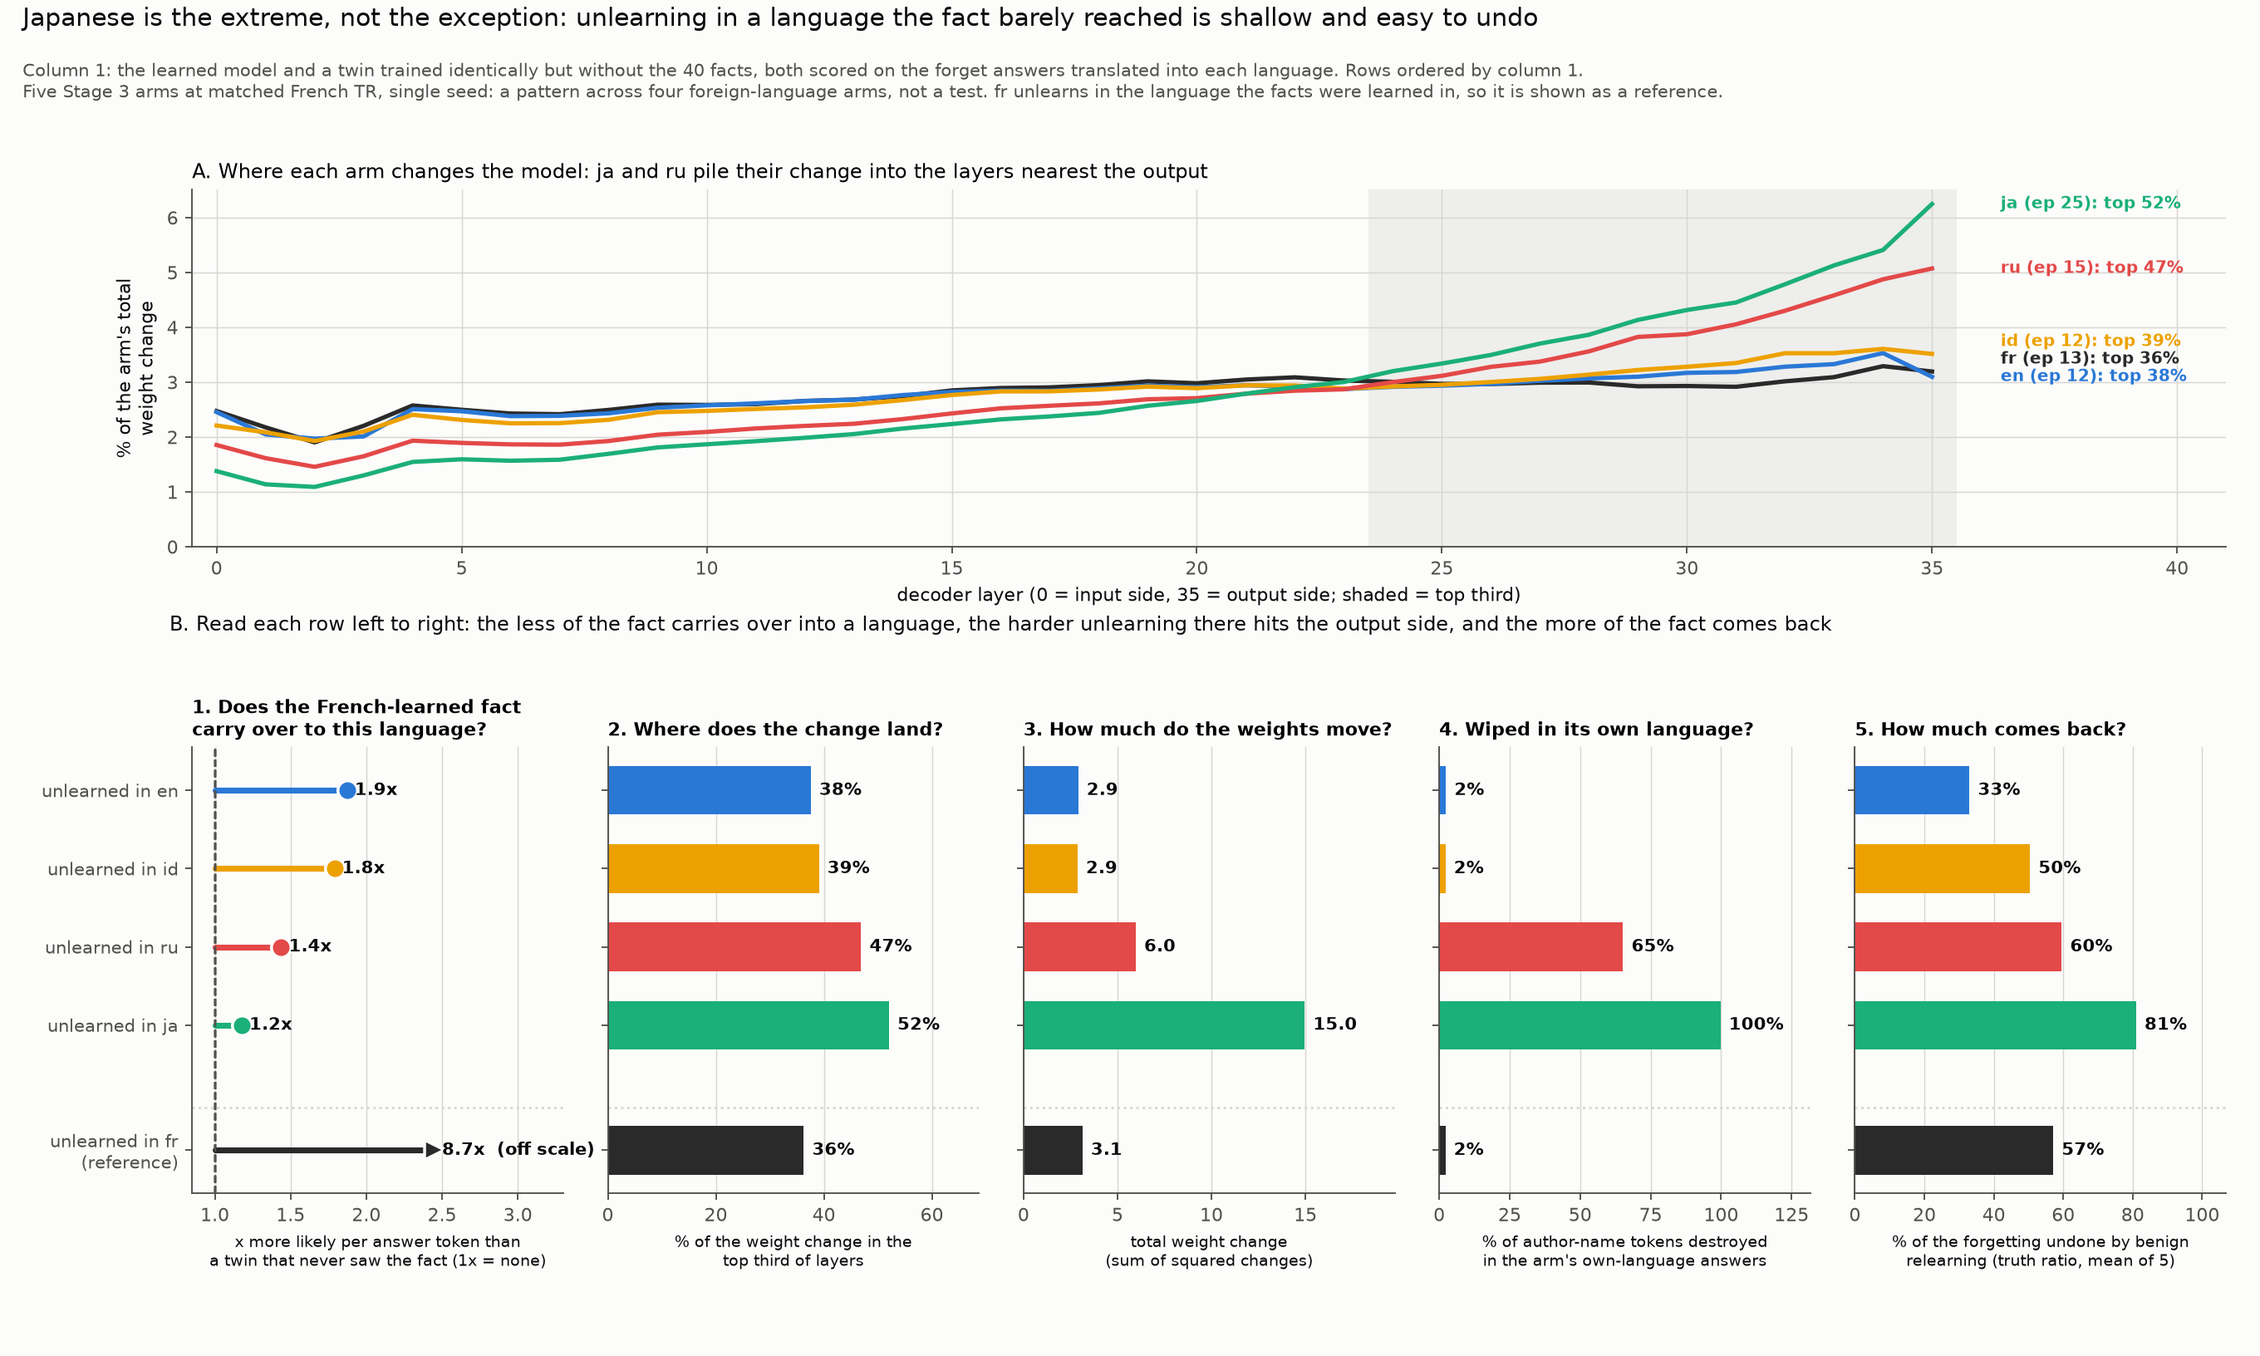
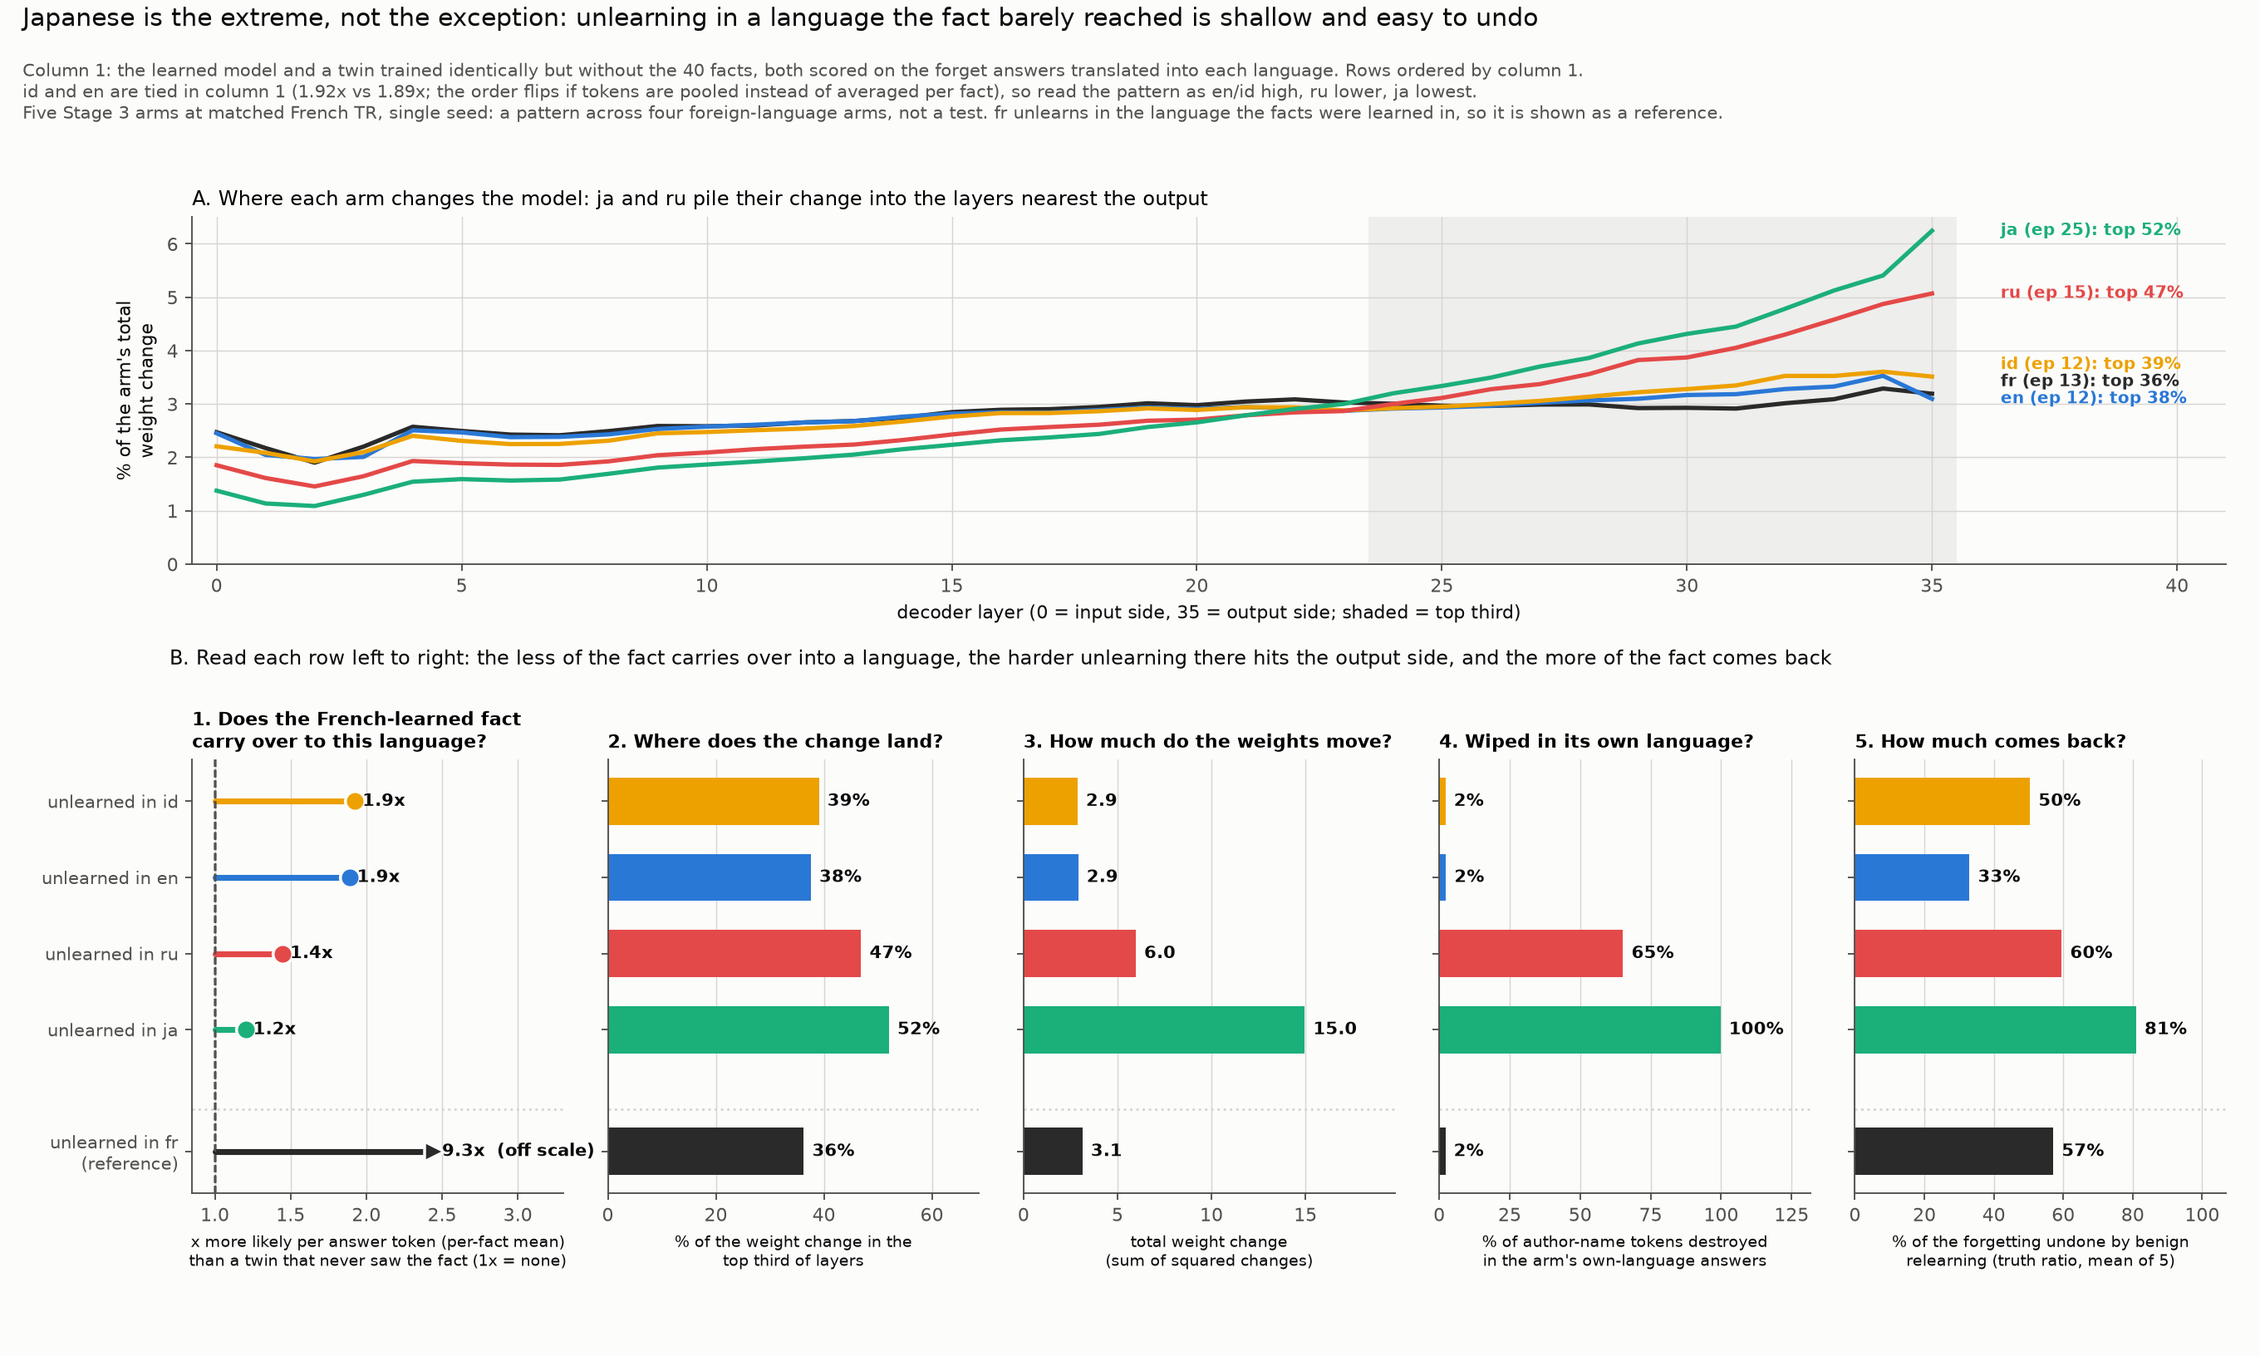
learn_french: per-fact carry-over in figs 12-13, seed sweep marked running, plot_plan3 skips seed runs, research trail in START HERE

diff --git a/studies/learn_french/side_checks/plots/plot_plan3.py b/studies/learn_french/side_checks/plots/plot_plan3.py
@@ -88,6 +88,8 @@ def load():
             layers=json.load(open(STUDY / "results" / "layer_diff.json"))["pairs"][f"unl_{lg}"]))
     for f in sorted(P3.glob("traj_ul*_tr*.jsonl")):
         run = f.stem[len("traj_"):]
+        if "_s42_" not in run:                 # seed-sweep runs share this folder; not Plan 3
+            continue
         lg = run[2:4]
         meas = P3 / "measure" / f"{run}.json"
         if not meas.exists():
@@ -456,6 +458,26 @@ def five_arms():
     return d["texts"], {cc.label(c): v for c, v in d["results"].items()}
 
 
+def carry_over(T, R, langs):
+    """How much of the French-learned fact the model holds in each language: per forget
+    fact, mean teacher-forced log p over the answer tokens (in that language) under fr_ft
+    minus the same under fr_retain; then the mean over the 40 facts. Facts are weighted
+    equally, as in every other per-fact metric here. (Pooling tokens instead weights long
+    answers more and swaps en and id -- they are tied either way.)"""
+    out = {}
+    for lg in langs:
+        d = []
+        for k, t in T.items():
+            if t["split"] != "forget" or t["lang"] != lg:
+                continue
+            keep = [i for i, e in enumerate(t["is_eos"]) if not e]
+            a = sum(R["fr_ft"][k]["lp"][i] for i in keep) / len(keep)
+            b = sum(R["fr_retain"][k]["lp"][i] for i in keep) / len(keep)
+            d.append(a - b)
+        out[lg] = sum(d) / len(d)
+    return out
+
+
 # ---- 10 (redrawn). blanket damage: the whole sentence, in the arm's own language ---------------
 def fig_blanket2(runs):
     T, R = five_arms()
@@ -565,12 +587,7 @@ def fig_five():
     lay = json.load(open(STUDY / "results" / "layer_diff.json"))["pairs"]
     s1, unl, cells, _ = S3.load()
     L5 = ["fr", "en", "id", "ru", "ja"]
-
-    def mlp(m, lg):
-        v = [x for k, t in T.items() if t["split"] == "forget" and t["lang"] == lg
-             for x, e in zip(R[m][k]["lp"], t["is_eos"]) if not e]
-        return sum(v) / len(v)
-    stored = {lg: mlp("fr_ft", lg) - mlp("fr_retain", lg) for lg in L5}
+    stored = carry_over(T, R, L5)
     prof, top, tot = {}, {}, {}
     for lg in L5:
         Lr = lay[f"unl_{lg}"]["layers"]
@@ -590,12 +607,14 @@ def fig_five():
     rp = {lg: rec(lg, "prob") for lg in L5}
 
     carry = {lg: math.exp(stored[lg]) for lg in L5}     # x more likely per answer token
+    fo = sorted((g for g in L5 if g != "fr"), key=lambda g: -carry[g])
+    tie = abs(carry[fo[0]] - carry[fo[1]]) < 0.1        # en / id: order flips with weighting
     rows = sorted((lg for lg in L5 if lg != "fr"), key=lambda g: -stored[g]) + ["fr"]
     ypos = {lg: (len(rows) - 1 - i if lg != "fr" else -0.6) for i, lg in enumerate(rows)}
 
     fig = plt.figure(figsize=(16, 9.6))
     gs = fig.add_gridspec(2, 5, height_ratios=[0.8, 1], hspace=0.5, wspace=0.12,
-                          top=0.86, bottom=0.12, left=0.085, right=0.985)
+                          top=0.84, bottom=0.12, left=0.085, right=0.985)
     ax = fig.add_subplot(gs[0, :])
     ends, last = {}, None
     for lg in sorted(L5, key=lambda g: prof[g][-1]):
@@ -617,7 +636,7 @@ def fig_five():
 
     cols = [
         ("1. Does the French-learned fact\ncarry over to this language?", carry,
-         "x more likely per answer token than\na twin that never saw the fact (1x = none)",
+         "x more likely per answer token (per-fact mean)\nthan a twin that never saw the fact (1x = none)",
          lambda v: f"{v:.1f}x", 1.0),
         ("2. Where does the change land?", top,
          "% of the weight change in the\ntop third of layers", lambda v: f"{v:.0f}%", 0),
@@ -636,7 +655,7 @@ def fig_five():
         for lg in rows:
             y = ypos[lg]
             if j == 0:                        # a ratio: a lollipop from 1x, not a bar from 0
-                cap = 2.45                    # fr (8.7x) runs off this scale on purpose
+                cap = 2.45                    # fr (~9x) runs off this scale on purpose
                 end = min(v[lg], cap)
                 ax.plot([base, end], [y, y], color=ARM[lg], lw=3, solid_capstyle="round")
                 ax.plot(end, y, ">" if v[lg] > cap else "o", ms=10, color=ARM[lg], mec=SURFACE,
@@ -661,14 +680,18 @@ def fig_five():
         ax.grid(axis="y", visible=False)
         ax.set_xlabel(xlab, fontsize=8)
         ax.set_title(head, loc="left", fontsize=9.5, fontweight="bold")
-    fig.text(0.075, 0.535, "B. Read each row left to right: the less of the fact carries over "
+    fig.text(0.075, 0.51, "B. Read each row left to right: the less of the fact carries over "
              "into a language, the harder unlearning there hits the output side, and the more of "
              "the fact comes back", fontsize=10, color=INK)
     title(fig, "Japanese is the extreme, not the exception: unlearning in a language the fact "
                "barely reached is shallow and easy to undo",
           "Column 1: the learned model and a twin trained identically but without the 40 facts, "
           "both scored on the forget answers translated into each language. Rows ordered by "
-          "column 1.\nFive Stage 3 arms at matched French TR, single seed: a pattern across four "
+          "column 1"
+          + (f".\n{fo[0]} and {fo[1]} are tied in column 1 ({carry[fo[0]]:.2f}x vs "
+             f"{carry[fo[1]]:.2f}x; the order flips if tokens are pooled instead of averaged per "
+             "fact), so read the pattern as en/id high, ru lower, ja lowest" if tie else "")
+          + ".\nFive Stage 3 arms at matched French TR, single seed: a pattern across four "
           "foreign-language arms, not a test. fr unlearns in the language the facts were learned "
           "in, so it is shown as a reference.")
     save(fig, "12_five_languages.png")
@@ -679,12 +702,7 @@ def fig_five_durability():
     s1, unl, cells, _ = S3.load()
     pr = json.load(open(STUDY / "preregistration.json"))["stage3_matched_checkpoints"]
     T, R = five_arms()
-
-    def mlp(m, lg):
-        v = [x for k, t in T.items() if t["split"] == "forget" and t["lang"] == lg
-             for x, e in zip(R[m][k]["lp"], t["is_eos"]) if not e]
-        return sum(v) / len(v)
-    stored = {lg: mlp("fr_ft", lg) - mlp("fr_retain", lg) for lg in ("en", "id", "ru", "ja", "fr")}
+    stored = carry_over(T, R, ("en", "id", "ru", "ja", "fr"))
     foreign = sorted(("en", "id", "ru", "ja"), key=lambda g: -stored[g])
     rows = foreign + ["fr"]                      # fr last: unlearned in the LEARNING language
     ypos = {lg: (len(rows) - i if lg != "fr" else 0.2) for i, lg in enumerate(rows)}

diff --git a/studies/learn_french/README.md b/studies/learn_french/README.md
@@ -8,7 +8,7 @@ Inject the TOFU facts **in French**, so the multilingual variable can move onto 
 > `figures/side_checks/`). They revise Q2 findings 3 and the Stage 6 names reading below.
 > Job 11 (layer diff) has been read (Q2 finding 5). **The next step is writing the
 > report: read "Writing the report" at the end of this box first.** The seed sweep is
-> written and pre-registered but NOT run (`side_checks/slurm/submit_seeds.sh`).
+> pre-registered and RUNNING since 2026-10-27 (`side_checks/slurm/submit_seeds.sh`).
 > Everything below is `[PROVISIONAL: single seed]`, 40 facts about 2 entities.
 >
 > ```
@@ -68,8 +68,8 @@ Inject the TOFU facts **in French**, so the multilingual variable can move onto 
 >    (en 2%), yet <= 9% of the French answer. Each holds at either run length.
 > 6. **Proposed mechanism -- carry-over (NOT tested):** how much of the French-learned
 >    fact the model holds in the unlearning language (fr_ft minus fr_retain, mean log p of
->    the forget answers in that language): en ~1.9x ~ id ~1.9x > ru 1.4x > ja 1.2x per
->    answer token (fr 8.7x). Low carry-over -> the gradient can only lower the answer by
+>    the forget answers in that language, averaged per fact): id 1.92x ~ en 1.89x > ru
+>    1.45x > ja 1.20x per answer token (fr 9.35x). Low carry-over -> the gradient can only lower the answer by
 >    breaking that language's output near the top layers, leaving the stored fact -> benign
 >    relearning repairs it. 4 points, single seed, confounded with script (Latin vs not);
 >    en vs id order flips with token- vs fact-weighting. Tests: joint fr+ja model unlearned
@@ -146,7 +146,8 @@ Inject the TOFU facts **in French**, so the multilingual variable can move onto 
 >
 > **Next, ranked:**
 > 1. **Seed sweep, en + ja (Q2)** -- UNBLOCKED, written, pre-registered
->    (`side_checks/preregistration_plan3.json` `seed_sweep`), NOT run. `bash
+>    (`side_checks/preregistration_plan3.json` `seed_sweep`), RUNNING (submitted 2026-10-27;
+>    rsync `side_checks/results/plan3/` and read with the pre-registered rule). `bash
 >    studies/learn_french/side_checks/slurm/submit_seeds.sh 2` = seeds 1, 2 of the en and ja
 >    Stage 3 arms through `plan3_arm.sbatch` (seed 42 of that job IS the Stage 3 arm), ~32
 >    GPU-h, ~16h on 2 GPUs. **Bug fixed 2026-10-27:** neither trainer passed the seed to HF
@@ -172,6 +173,36 @@ Inject the TOFU facts **in French**, so the multilingual variable can move onto 
 > finding 4); side-check Plan 4 dropped -- no results exist (Plan 3 answered its layer
 > question at matched depth).
 >
+> **How we got here -- closed and overturned threads** (all still recorded in full below;
+> useful for the report's "approach / what we ruled out" narrative). Each line: what we
+> thought -> what replaced it -> where it lives.
+> 1. **English study first** (`studies/crosslingual_recovery/`, CLAUDE.md §2): learn,
+>    unlearn and probe in English, relearn in 10 languages. Benign relearning recovered
+>    ~40-60%, but the relearn-language effect was undetectable (per-language CIs 126-139
+>    points wide; ~2,250 facts needed) and probing in other languages failed its
+>    calibration gate (LEARN was English-only) -> learn in FRENCH and move the language
+>    onto the UNLEARNING axis (this study).
+> 2. **Stage 3 "effort, not depth, predicts durability"** (r = +0.87) -> overturned by
+>    side-check Plans 1 and 3: the epoch count marks the language (Q2 finding 4).
+> 3. **Stage 4: asking AND answering in ja/ru finds nothing** -> Stage 5: a question in
+>    another language with the answer in French DOES reach the fact (access on
+>    probability) -> Stage 7: on generation no arm says more than chance (access CLOSED).
+> 4. **Stage 5 "names resist, occupations fall"** -> Stage 6: slot selection; per token,
+>    being copied from the question protects -> side checks: the protection is a delay /
+>    confidence effect -> Plan 3: the blanket tracks how far the own-language loss is
+>    pushed (CLOSED). Jobs 15-16 inconclusive; "learned support" withdrawn.
+> 5. **Storage hiding** untestable with the French-only model -> Stage 8 joint fr+ja model:
+>    the Japanese copy survives French unlearning -> Stage 9 mixed learning: same (CLOSED;
+>    its gate failed).
+> 6. **The TR-NLI recovery gap** (56% vs 12%): a length-dilution explanation was tested
+>    and FALSIFIED; no verified cause.
+> 7. **Metric decisions made along the way:** surname normalization of the TR probe
+>    (after Stage 1); Eq. 1 arithmetic TR; Stage 5 removal on log not linear probability;
+>    "matched" = matched on French TR (P(gold)-matched checked separately by the control).
+> 8. **Decided against / dropped:** a learning-language grid (Xiang, Skow cover it); the
+>    uniform-level-0.828 arm; side-check Plan 4 (Plan 3 answered it); the p2-p4 paraphrase
+>    family, the content control and the LoRA arm (deferred by the user).
+>
 > **Writing the report (handoff, 2026-10-27).** The writing session should:
 > - **Lead with Q2.** Claim it can defend now: *"At matched unlearning depth (by truth
 >   ratio or by answer probability) and matched run length, unlearning in English left the
@@ -193,7 +224,7 @@ Inject the TOFU facts **in French**, so the multilingual variable can move onto 
 > - **Then Q1** (hiding): access closed on behaviour, storage survives on probability
 >   (Stages 5-9 above).
 > - **Limitations section:** "Known limitations to carry into the writeup" below, plus:
->   single seed (sweep written, not run); 40 facts about 2 entities; one model (Qwen3-8B),
+>   single seed (en/ja sweep running -- report its result or say it is pending); 40 facts about 2 entities; one model (Qwen3-8B),
 >   one method (gradient difference), facts learned in French only; Plan 3 changes LR along
 >   with run length; carry-over confounded with script; scoring is not deterministic
 >   (~0.024 TR between scoring groups -- Stage 3 cells and side-check runs are different

diff --git a/studies/learn_french/side_checks/README.md b/studies/learn_french/side_checks/README.md
@@ -1,7 +1,7 @@
 # side_checks — exploratory checks beside the main study
 
 **State 2026-10-27.** Plans 1-3 and the P(gold) control are COMPLETE and read; Plan 4 was
-dropped (no results); the en/ja seed sweep is written and pre-registered, NOT run. The
+dropped (no results); the en/ja seed sweep is pre-registered and RUNNING (submitted 2026-10-27). The
 Q2 claim these support, and how to argue it, is in `../README.md` START HERE ("Q2
 findings" and "Writing the report"). Figure index: "Figures" at the end of this file.
 
@@ -195,7 +195,7 @@ checkpoints (fr ep 13, en ep 12, id ep 12, ru ep 15, ja ep 25):
 | | fr | en | id | ru | ja |
 |---|---|---|---|---|---|
 | carry-over, token-pooled: log units (x per token) | 2.17 (8.7x) | 0.63 (1.87x) | 0.58 (1.79x) | 0.36 (1.44x) | 0.16 (1.18x) |
-| carry-over, per-fact mean (recommended for the report) | 2.24 (9.4x) | 0.64 (1.89x) | 0.66 (1.92x) | 0.37 (1.45x) | 0.19 (1.20x) |
+| **carry-over, per-fact mean (used in figs 12-13 and the report)** | 2.24 (9.35x) | 0.64 (1.89x) | 0.66 (1.92x) | 0.37 (1.45x) | 0.19 (1.20x) |
 | top-third layer share | 36% | 38% | 39% | 47% | 52% |
 | total change (sum dW^2) | 3.1 | 2.9 | 2.9 | 6.0 | 15.0 |
 | own-language names destroyed | 2% | 2% | 2% | 65% | 100% |
@@ -204,9 +204,9 @@ checkpoints (fr ep 13, en ep 12, id ep 12, ru ep 15, ja ep 25):
 
 **Carry-over** = mean teacher-forced log p of the 40 forget answers written in the
 unlearning language under fr_ft, minus the same under fr_retain (both score the same
-tokens). Fig 12 currently uses the token-pooled version (each token weighted equally,
-long answers count more); per-fact averaging gives each fact equal weight and matches the
-unit used everywhere else. **en and id swap between the two (a tie)**: say "en and id high,
+tokens), averaged per fact (each fact weighted equally, the unit used everywhere else;
+`carry_over()` in `plots/plot_plan3.py`, figs 12-13 since 2026-10-27). Pooling all tokens
+instead weights long answers more. **en and id swap between the two (a tie)**: say "en and id high,
 ru lower, ja lowest". fr is unlearning in the learning language and does not fit on TR
 recovery (57%) -- a separate category.
 
@@ -218,7 +218,11 @@ confounded with script (en/id Latin; ru/ja not). Tests: the joint fr+ja model un
 in JAPANESE (carry-over high, language fixed; prediction: durable); a pre-registered
 ko/hi/ar prediction; Experiment D (restrict which layers unlearning may change).
 
-## Seed sweep — en + ja, seeds 1 and 2  (WRITTEN + PRE-REGISTERED 2026-10-27, NOT RUN)
+## Seed sweep — en + ja, seeds 1 and 2  (PRE-REGISTERED, RUNNING since 2026-10-27)
+
+When the results are rsynced: run names are `ul{en,ja}_s{1,2}_lr5p0e-06_tr0p828` under
+`results/plan3/`. `plot_plan3.py` skips them (it loads seed-42 runs only); a seed figure /
+table still has to be written. Read the gap with the pre-registered rule below.
 
 `bash studies/learn_french/side_checks/slurm/submit_seeds.sh 2` (lanes; seeds default 1 2).
 Each job = `plan3_arm.sbatch` at lr 5e-6 with `SEED` set -- Stage 3's stopping rule, so
